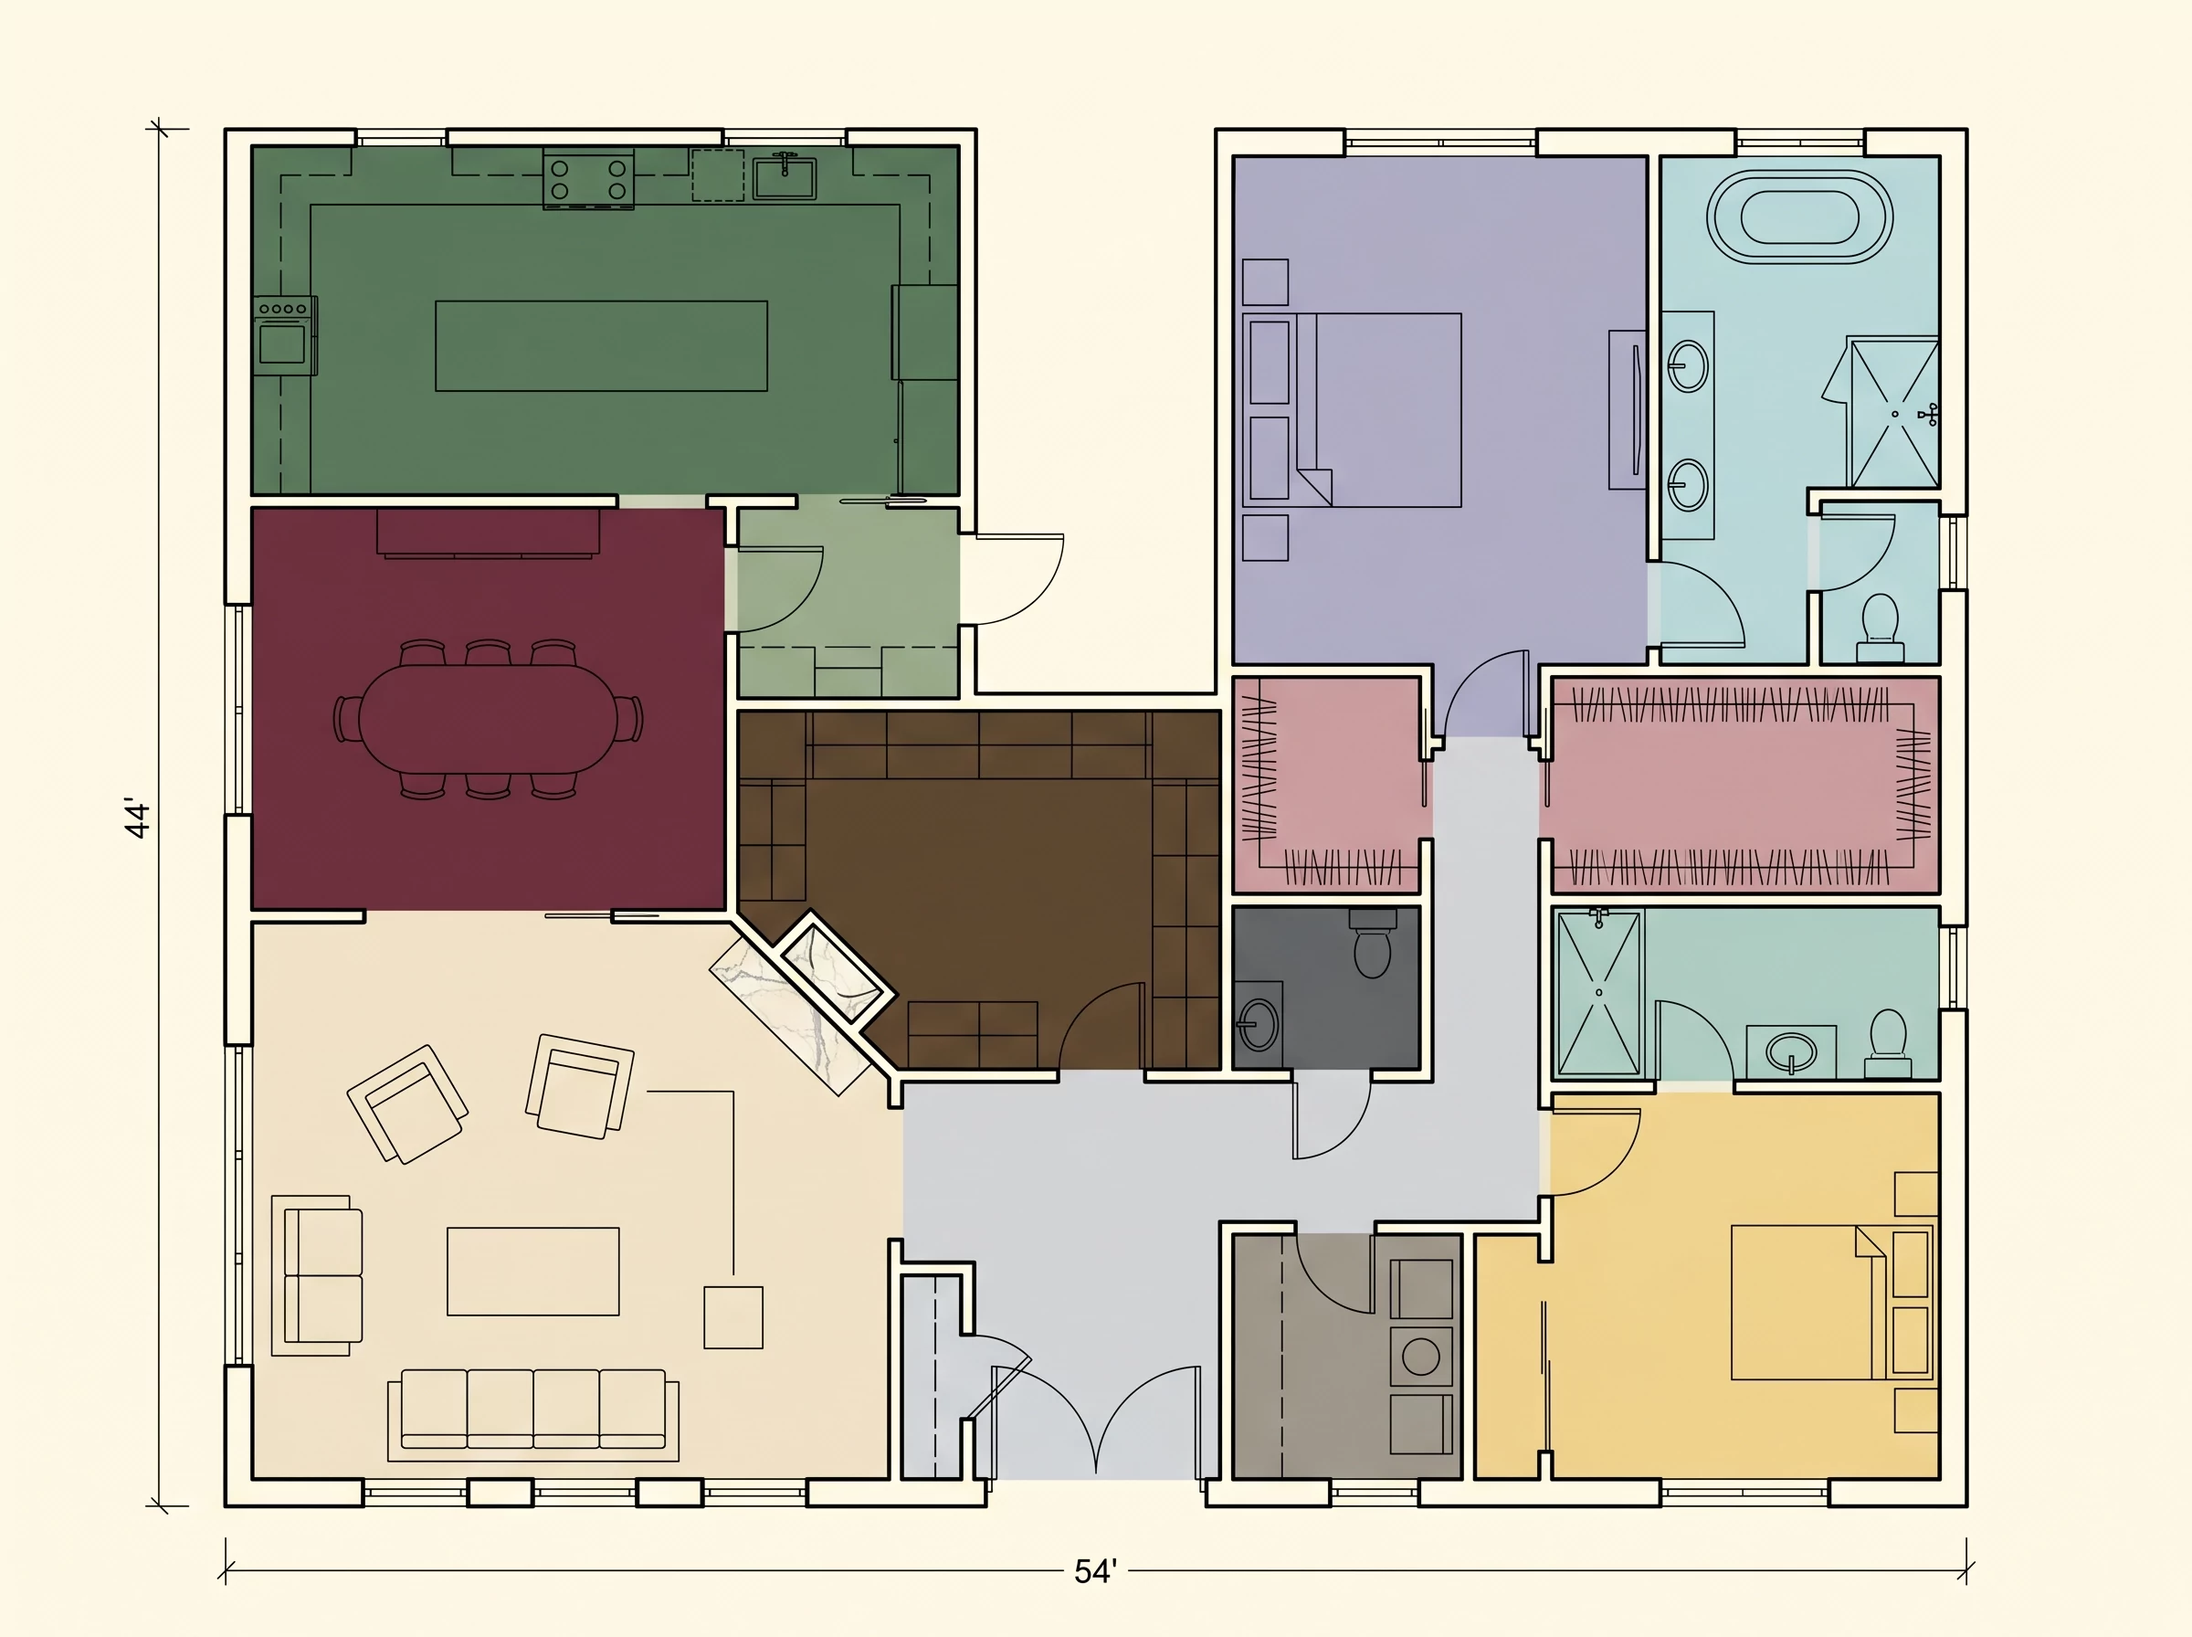
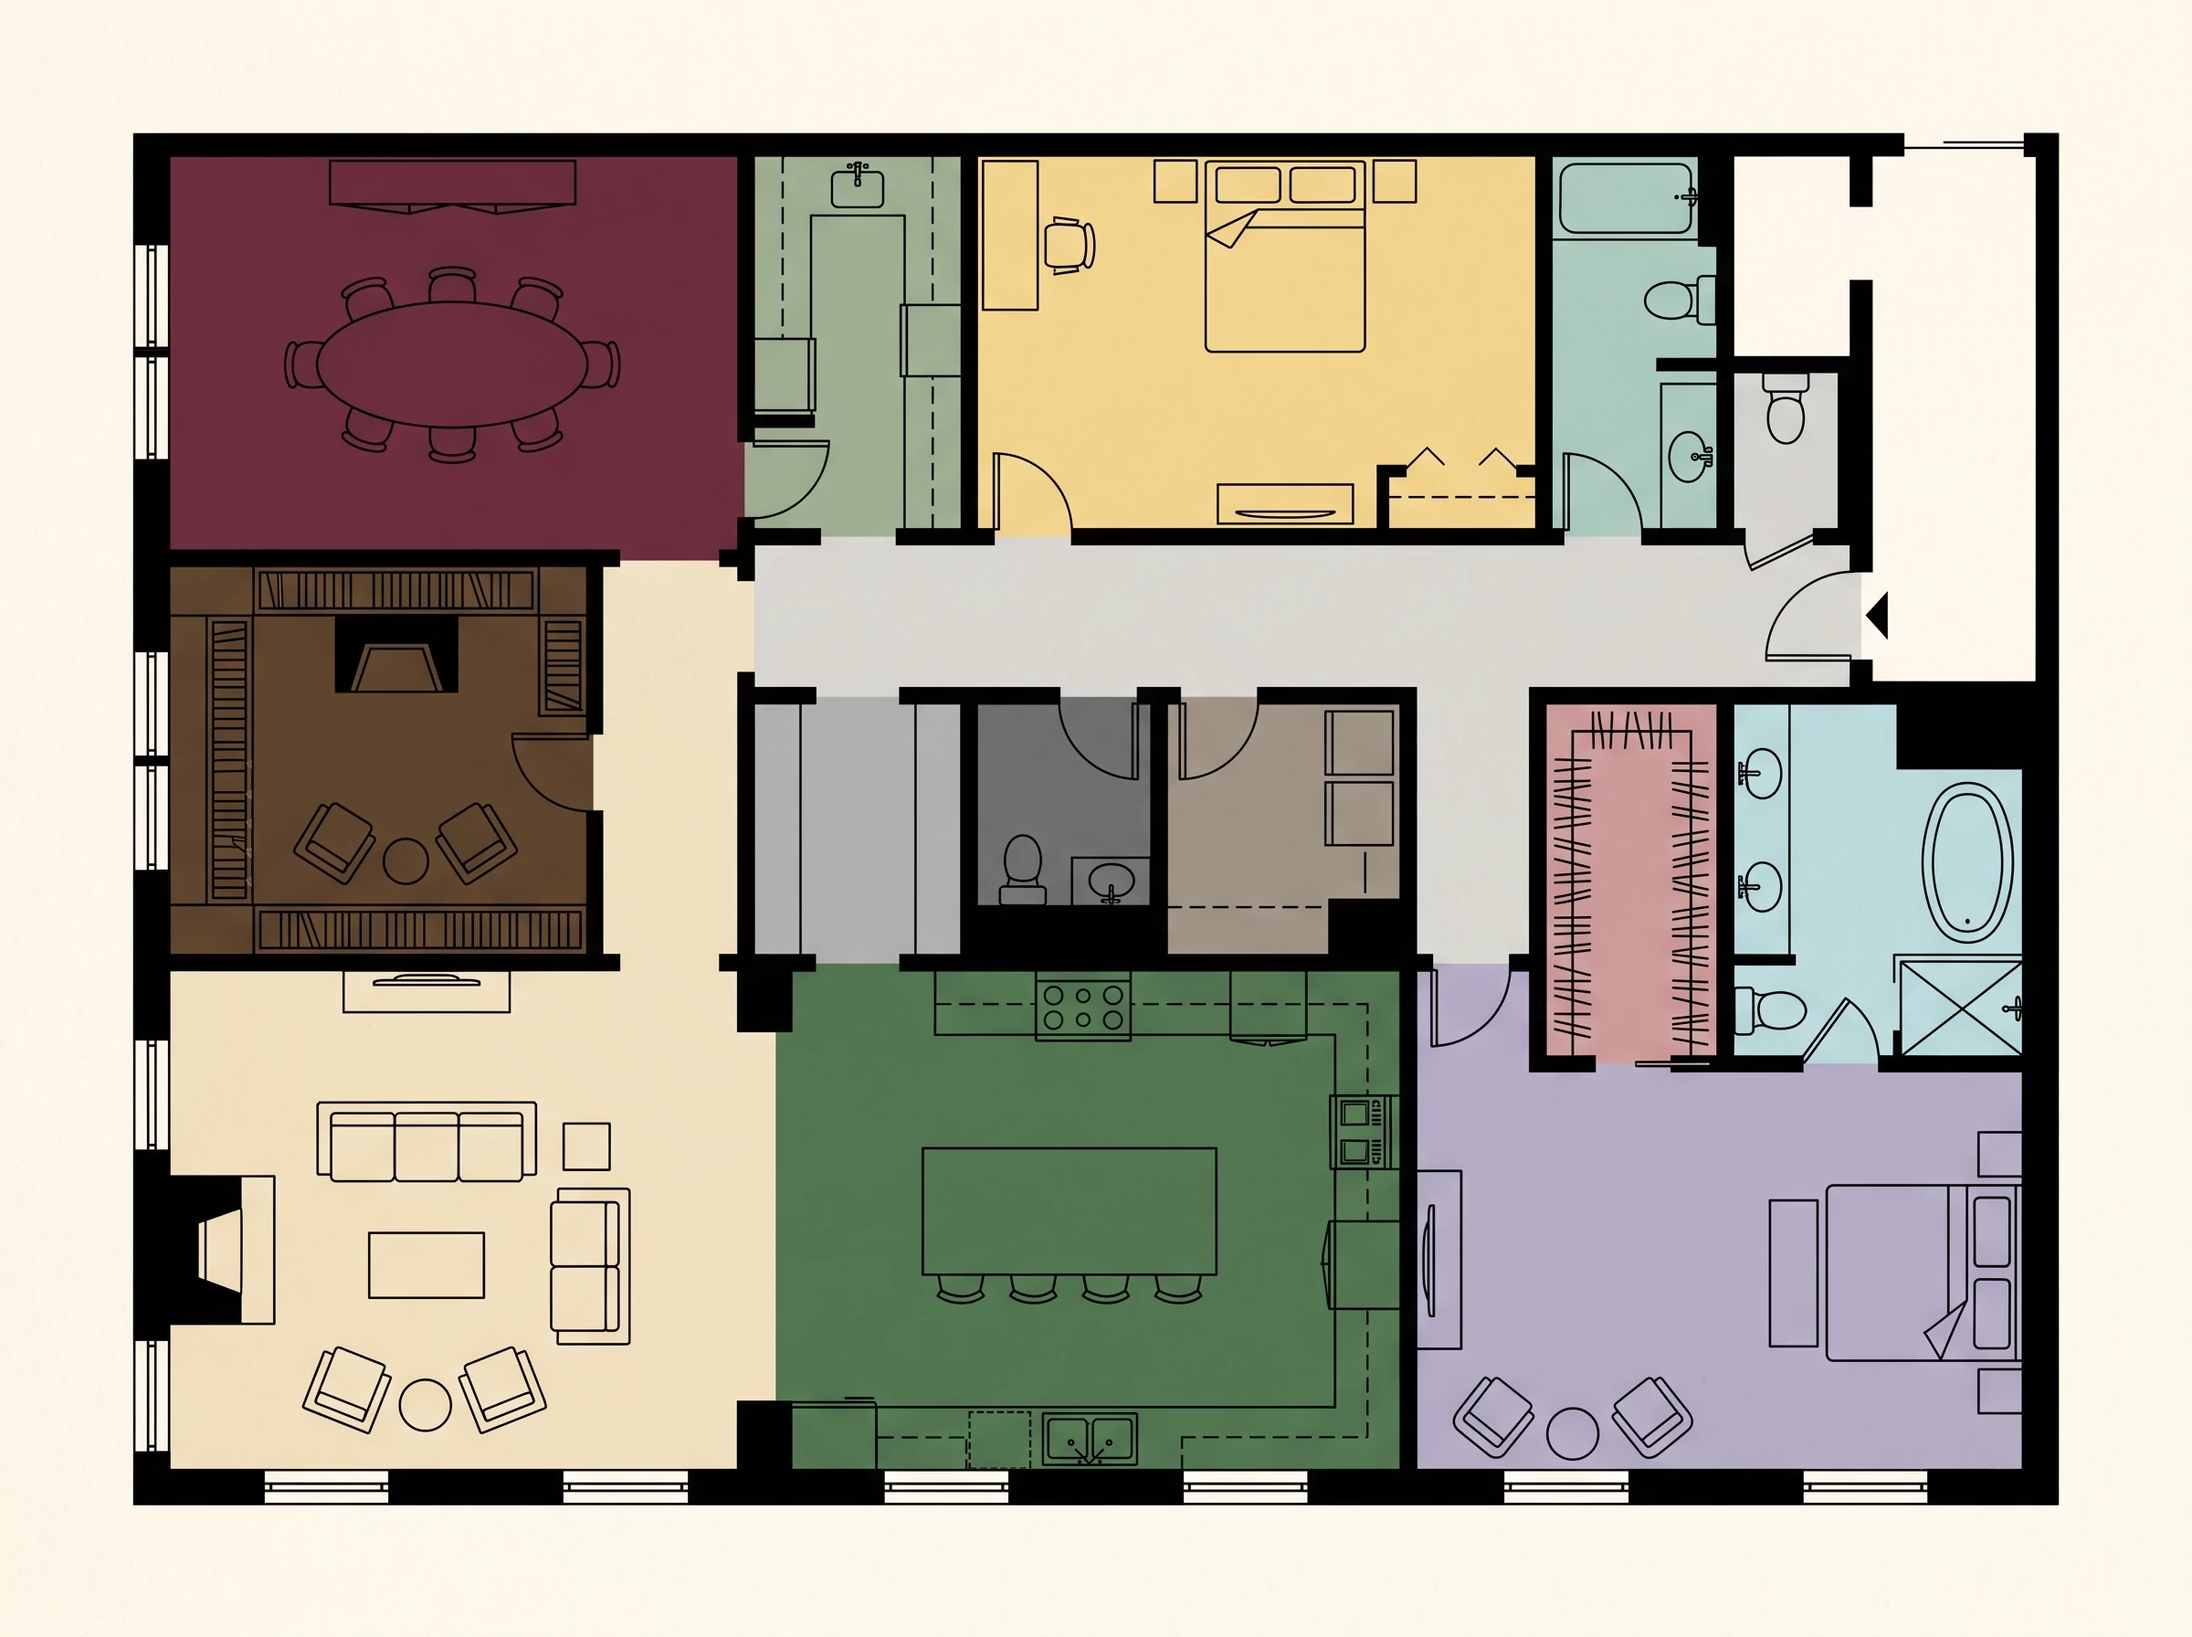
Regenerate PINEHURST 8B plan with realistic corner-unit windows
User feedback: previous plan had windows on every exterior wall, which
isn't realistic for a pre-war NYC apartment. The unit is a corner unit
that shares party walls with neighbors on the north and east.

New plan keeps the color-coded no-text diagrammatic style and places
windows ONLY on the west and south exterior walls:

- West wall (windows): formal dining, library, living room
- South wall (windows): living room, chef's kitchen, master bedroom
- North wall: 100% solid party wall, no windows or openings
- East wall: 100% solid party wall, no windows or openings

Interior rooms with no exterior light: master bath, walk-in closet,
guest bedroom, guest bath, butler's pantry, powder room, laundry,
gallery hallway — all typical pre-war NYC interior placements.

Bumped ?v= cache-buster to 20260608l.

diff --git a/index.html b/index.html
@@ -18,8 +18,8 @@
 <link rel="icon" href="/favicon.ico" sizes="any">
 <link rel="icon" type="image/png" href="/assets/images/favicon.png">
 <link rel="apple-touch-icon" href="/assets/images/apple-touch-icon.png">
-<link rel="stylesheet" href="/assets/css/style.css?v=20260608k">
-<script src="/assets/js/intro-state.js?v=20260608k"></script>
+<link rel="stylesheet" href="/assets/css/style.css?v=20260608l">
+<script src="/assets/js/intro-state.js?v=20260608l"></script>
 </head>
 <body class="home-page">
 
@@ -189,6 +189,6 @@
   </div>
 </footer>
 
-<script src="/assets/js/main.js?v=20260608k"></script>
+<script src="/assets/js/main.js?v=20260608l"></script>
 </body>
 </html>

diff --git a/about/index.html b/about/index.html
@@ -17,7 +17,7 @@
 <link rel="icon" href="/favicon.ico" sizes="any">
 <link rel="icon" type="image/png" href="/assets/images/favicon.png">
 <link rel="apple-touch-icon" href="/assets/images/apple-touch-icon.png">
-<link rel="stylesheet" href="/assets/css/style.css?v=20260608k">
+<link rel="stylesheet" href="/assets/css/style.css?v=20260608l">
 </head>
 <body class="about-page">
 
@@ -198,6 +198,6 @@
   </div>
 </footer>
 
-<script src="/assets/js/main.js?v=20260608k"></script>
+<script src="/assets/js/main.js?v=20260608l"></script>
 </body>
 </html>

diff --git a/contact/index.html b/contact/index.html
@@ -16,7 +16,7 @@
 <link rel="icon" href="/favicon.ico" sizes="any">
 <link rel="icon" type="image/png" href="/assets/images/favicon.png">
 <link rel="apple-touch-icon" href="/assets/images/apple-touch-icon.png">
-<link rel="stylesheet" href="/assets/css/style.css?v=20260608k">
+<link rel="stylesheet" href="/assets/css/style.css?v=20260608l">
 </head>
 <body>
 
@@ -110,6 +110,6 @@
   </div>
 </footer>
 
-<script src="/assets/js/main.js?v=20260608k"></script>
+<script src="/assets/js/main.js?v=20260608l"></script>
 </body>
 </html>

diff --git a/work/index.html b/work/index.html
@@ -17,7 +17,7 @@
 <link rel="icon" href="/favicon.ico" sizes="any">
 <link rel="icon" type="image/png" href="/assets/images/favicon.png">
 <link rel="apple-touch-icon" href="/assets/images/apple-touch-icon.png">
-<link rel="stylesheet" href="/assets/css/style.css?v=20260608k">
+<link rel="stylesheet" href="/assets/css/style.css?v=20260608l">
 </head>
 <body>
 
@@ -352,6 +352,6 @@
   </div>
 </footer>
 
-<script src="/assets/js/main.js?v=20260608k"></script>
+<script src="/assets/js/main.js?v=20260608l"></script>
 </body>
 </html>
